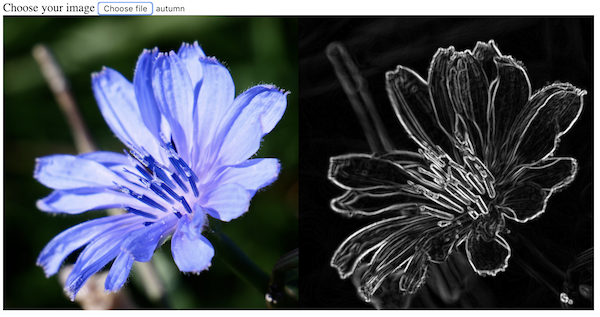
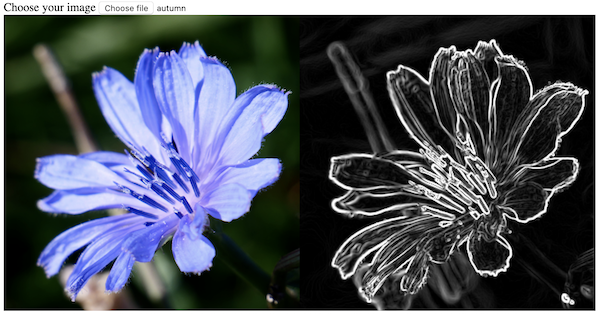
enhance sobel operation and add options

diff --git a/scripts/imageprocessing.js b/scripts/imageprocessing.js
@@ -1,3 +1,33 @@
+let imageProcessingRadios = [
+  {
+    id: "rgba2gray",
+    desc: "rgba to gray",
+    checked: true
+  },
+  {
+    id: "extractChannel",
+    desc: "extract channel: ",
+    select: ["red", "green", "blue"],
+    selectHandler: channelChangeEventHandler
+  },
+  {
+    id: "extractLightness",
+    desc: "extract lightness channel"
+  },
+  {
+    id: "medianFilter",
+    desc: "smooth image via median filter"
+  },
+  {
+    id: "boxFilter",
+    desc: "smooth image via box filter"
+  },
+  {
+    id: "sobel",
+    desc: "edge detection via sobel filter"
+  }
+];
+
 let imageProcessor = {
   imageSource: () => {
     let imgElement = document.getElementById("imageSrc");
@@ -29,6 +59,29 @@ let imageProcessor = {
     src.delete();
     rgbaPlanes.delete();
     R.delete();
+  },
+
+  extractLightness: () => {
+    let src = imageProcessor.imageSource();
+    let dst = new cv.Mat();
+
+    // convert the color image into the Lab space
+    cv.cvtColor(src, src, cv.COLOR_RGBA2RGB);
+    cv.cvtColor(src, dst, cv.COLOR_RGB2Lab);
+
+    // extract the Lightness channel
+    let labPlanes = new cv.MatVector();
+    // split the Mat
+    cv.split(dst, labPlanes);
+    // get L channel
+    let L = labPlanes.get(0);
+    cv.imshow("canvasOutput", L);
+
+    // release objects
+    src.delete();
+    labPlanes.delete();
+    L.delete();
+    dst.delete();
   },
 
   medianFilter: () => {
@@ -63,13 +116,19 @@ let imageProcessor = {
     // convert to gray image
     cv.cvtColor(src, src, cv.COLOR_RGB2GRAY, 0);
     // sobel operation on the x-axis
-    cv.Sobel(src, dstx, cv.CV_16S, 1, 0, 3, 1, 0, cv.BORDER_DEFAULT);
-    cv.convertScaleAbs(dstx, dstx, 1, 0); // take its absolute value and then convert back to cv.CV_8U
+    cv.Sobel(src, dstx, cv.CV_32F, 1, 0, 3, 1, 0, cv.BORDER_DEFAULT);
     // sobel operation on the y-axis
-    cv.Sobel(src, dsty, cv.CV_16S, 0, 1, 3, 1, 0, cv.BORDER_DEFAULT);
-    cv.convertScaleAbs(dsty, dsty, 1, 0);
+    cv.Sobel(src, dsty, cv.CV_32F, 0, 1, 3, 1, 0, cv.BORDER_DEFAULT);
+
+    // cv.convertScaleAbs(dstx, dstx, 1, 0); // take its absolute value and then convert back to cv.CV_8U
+    // cv.convertScaleAbs(dsty, dsty, 1, 0);
     // merge the images
-    cv.addWeighted(dstx, 0.5, dsty, 0.5, 0, dst);
+    // cv.addWeighted(dstx, 0.5, dsty, 0.5, 0, dst);
+
+    // calculate the magnitude of the 2 images
+    cv.magnitude(dstx, dsty, dst);
+    // set back to cv.CV_8U space
+    cv.convertScaleAbs(dst, dst, 1, 0);
     // show the result and release objects
     cv.imshow("canvasOutput", dst);
     src.delete();
@@ -96,7 +155,22 @@ function onOpencvJSLoaded() {
   document.getElementById("loadOpenCV").innerHTML = "";
 }
 
-function div_radioOption(id, name, text, chekced = false) {
+function channelChangeEventHandler(event) {
+  // You can use “this” to refer to the selected element.
+  let taskName = event.target.parentElement.getAttribute("for");
+  if (imageTask() === taskName) {
+    imageProcessor[taskName](event.target.selectedIndex);
+  }
+}
+
+function div_radioOption(
+  id,
+  name,
+  text,
+  chekced = false,
+  select = [],
+  handler
+) {
   let div = document.createElement("div");
   let input = document.createElement("input");
   input.setAttribute("type", "radio");
@@ -110,6 +184,24 @@ function div_radioOption(id, name, text, chekced = false) {
   label.setAttribute("for", id);
   let labelContent = document.createTextNode(" " + text);
   label.appendChild(labelContent);
+
+  if (select.length > 0) {
+    let selectElement = document.createElement("select");
+    let selectID = id + "Select";
+    selectElement.setAttribute("id", selectID);
+    selectElement.setAttribute("name", selectID);
+
+    select.forEach(option => {
+      let optionElement = document.createElement("option");
+      optionElement.setAttribute("value", option);
+      let optionContent = document.createTextNode(" " + option);
+      optionElement.appendChild(optionContent);
+      selectElement.appendChild(optionElement);
+    });
+    selectElement.onchange = handler;
+    label.appendChild(selectElement);
+  }
+
   div.appendChild(input);
   div.appendChild(label);
   return div;
@@ -117,44 +209,41 @@ function div_radioOption(id, name, text, chekced = false) {
 
 function setImageTasks() {
   let radioGroupElement = document.getElementById("radioGroupImageProcessing");
-  let imageProcessingRadios = [
-    {
-      id: "rgba2gray",
-      desc: "rgba to gray",
-      checked: true
-    },
-    {
-      id: "extractChannel",
-      desc: "extract red channel"
-    },
-    {
-      id: "medianFilter",
-      desc: "smooth image via median filter"
-    },
-    {
-      id: "boxFilter",
-      desc: "smooth image via box filter"
-    },
-    {
-      id: "sobel",
-      desc: "edge detection via sobel filter"
-    }
-  ];
+
   imageProcessingRadios.forEach(radio => {
     radioGroupElement.appendChild(
-      div_radioOption(radio.id, "imageprocessing", radio.desc, radio.checked)
+      div_radioOption(
+        radio.id,
+        "imageprocessing",
+        radio.desc,
+        radio.checked,
+        radio.select,
+        radio.selectHandler
+      )
     );
   });
 
-  let taskElement = document.getElementsByName("imageprocessing");
-  let i;
-  for (i = 0; i < taskElement.length; i++) {
-    taskElement[i].addEventListener(
+  let taskElements = document.getElementsByName("imageprocessing");
+  taskElements.forEach(taskElement => {
+    taskElement.addEventListener(
       "change",
       e => {
-        imageProcessor[e.target.value]();
+        let options = imageProcessingRadios.filter(radio => {
+          return (
+            e.target.value === radio.id &&
+            radio.select &&
+            radio.select.length > 0
+          );
+        });
+        if (options.length === 0) {
+          imageProcessor[e.target.value]();
+        } else {
+          let select = "select[name='" + e.target.value + "Select']";
+          let optionID = document.querySelector(select).selectedIndex;
+          imageProcessor[e.target.value](optionID);
+        }
       },
       false
     );
-  }
+  });
 }

diff --git a/index.html b/index.html
@@ -23,7 +23,7 @@
       </div>
     </div>
     <div>
-      <p>Select a image processing task:</p>
+      <p>Select an image processing task:</p>
       <div id="radioGroupImageProcessing"></div>
     </div>
     <script type="text/javascript">
@@ -40,7 +40,14 @@
       setImageTasks();
 
       imgElement.onload = () => {
-        imageProcessor[imageTask()]();
+        let taskName = imageTask();
+        let select = "select[name='" + taskName + "Select']";
+        let options = document.querySelector(select);
+        if (options) {
+          imageProcessor[taskName](options.selectedIndex);
+        } else {
+          imageProcessor[taskName]();
+        }
       };
     </script>
     <script

diff --git a/README.md b/README.md
@@ -125,7 +125,7 @@ dst.delete();
      alt="sobel operation"
      style="margin-left: 10px;" />
 
-Sobel operation is used to find the changes (discontinuities) of the pixel values in e.g. a grayscale image, so to detect the edges. 
+Sobel operation is used to find the changes (discontinuities, gradient) of the pixel values in e.g. a grayscale image, so to detect the edges. 
 
 ### a. preparations and convert the color image to a gray one
 
@@ -144,8 +144,6 @@ cv.cvtColor(src, src, cv.COLOR_RGB2GRAY, 0);
 ```javascript
 // sobel operation on the x-axis
 cv.Sobel(src, dstx, cv.CV_16S, 1, 0, 3, 1, 0, cv.BORDER_DEFAULT);
-// take the absolute values and convert them back to cv.CV_8U
-cv.convertScaleAbs(dstx, dstx, 1, 0); 
 ```
 
 ### c. using the filter <img src="https://latex.codecogs.com/gif.latex?\inline&space;\begin{bmatrix}-1&-2&-1\\0&0&0\\&plus;1&&plus;2&&plus;1\end{bmatrix}" title="\begin{bmatrix}-1&-2&-1\\0&0&0\\+1&+2&+1\end{bmatrix}" /> to get the vertical changes in the image
@@ -153,12 +151,14 @@ cv.convertScaleAbs(dstx, dstx, 1, 0);
 ```javascript
 // sobel operation on the y-axis
 cv.Sobel(src, dsty, cv.CV_16S, 0, 1, 3, 1, 0, cv.BORDER_DEFAULT);
-cv.convertScaleAbs(dsty, dsty, 1, 0);
 ```
 
-### d. merging the horizontal and vertical changes and showing the final results
+### d. merge the horizontal and vertical changes (gradient) and show the final results
 
 ```javascript
+// take the absolute values and convert them back to cv.CV_8U
+cv.convertScaleAbs(dstx, dstx, 1, 0); 
+cv.convertScaleAbs(dsty, dsty, 1, 0);
 // merge the images
 cv.addWeighted(dstx, 0.5, dsty, 0.5, 0, dst);
 // show the result and release objects
@@ -169,3 +169,17 @@ src.delete(); dstx.delete(); dsty.delete(); dst.delete();
 This image series is showing the steps, from a) converting to gray image, b) getting horizontal changes in the gray image, c) getting vertical changes, and d) the final merged images:
 
 ![Sobel Steps](images/sobel_steps.png)
+
+### d'. calculate gradient magnitude
+
+Instead of calculating the average of the horizontal and vertical changes, as in the step d, replace it with calculating their magnitude to get more precise results.
+
+```javascript
+// calculate the magnitude of the 2 images
+cv.magnitude(dstx, dsty, dst);
+// set back to cv.CV_8U space
+cv.convertScaleAbs(dst, dst, 1, 0);
+// show the result and release objects
+cv.imshow("canvasOutput", dst);
+src.delete(); dstx.delete(); dsty.delete(); dst.delete();
+```
